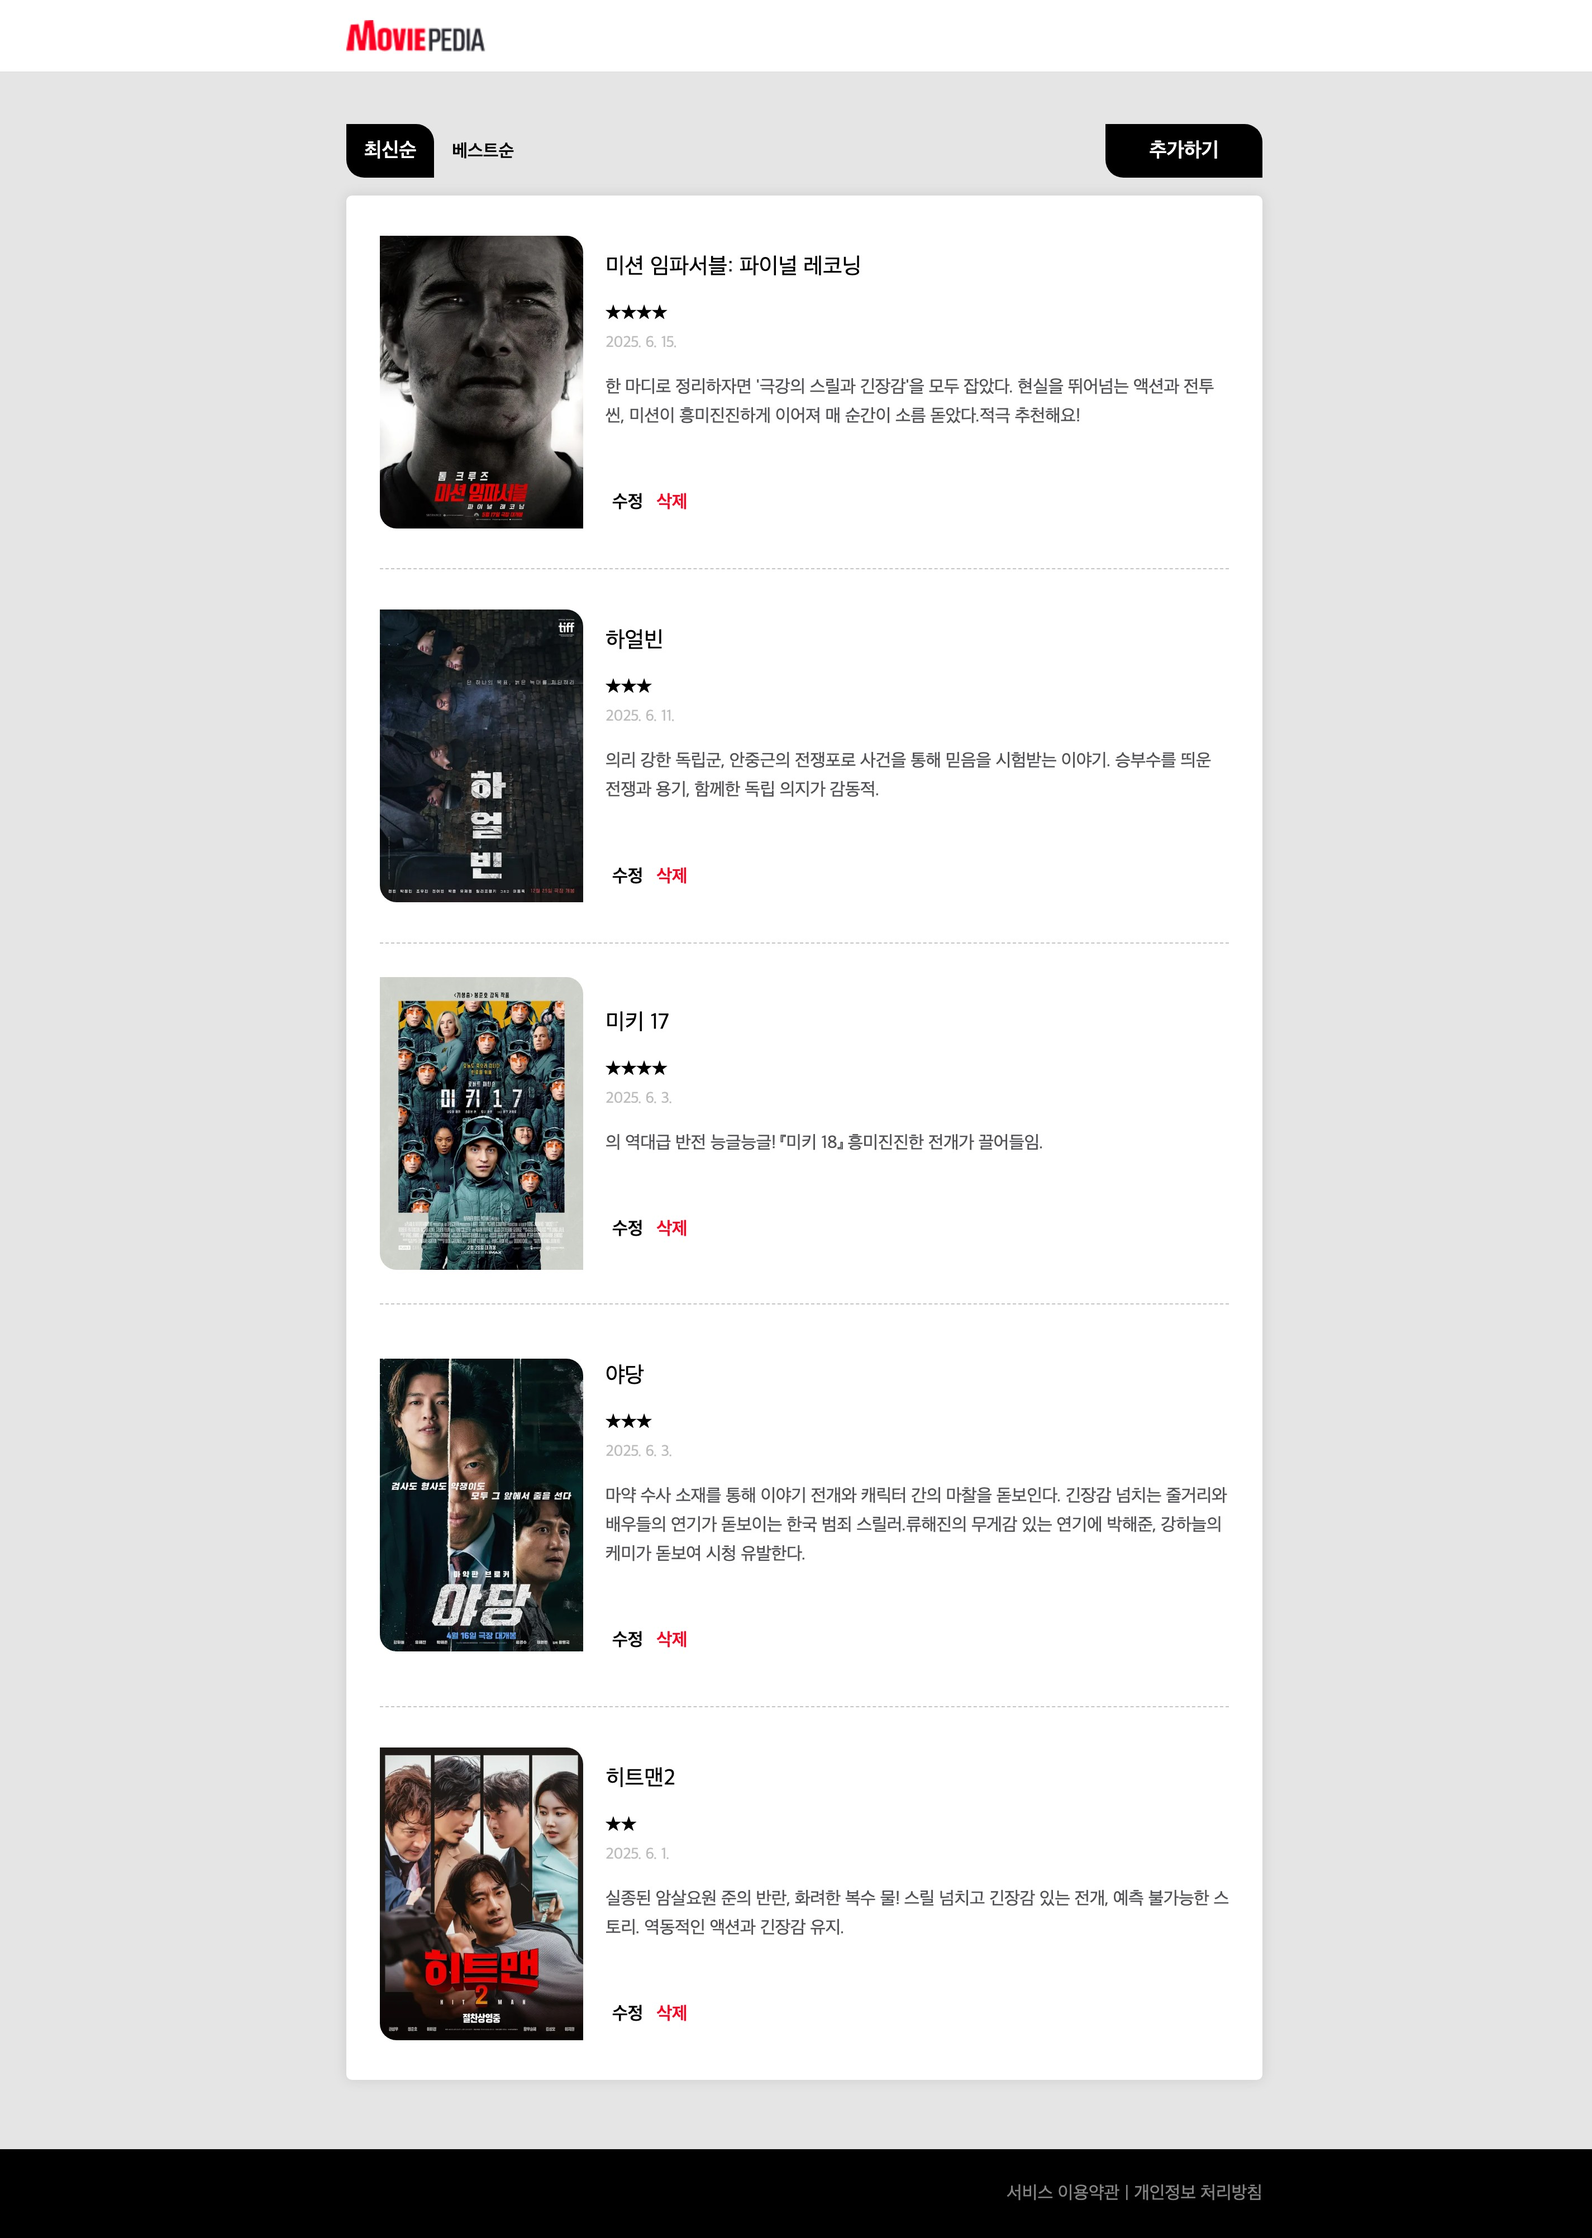
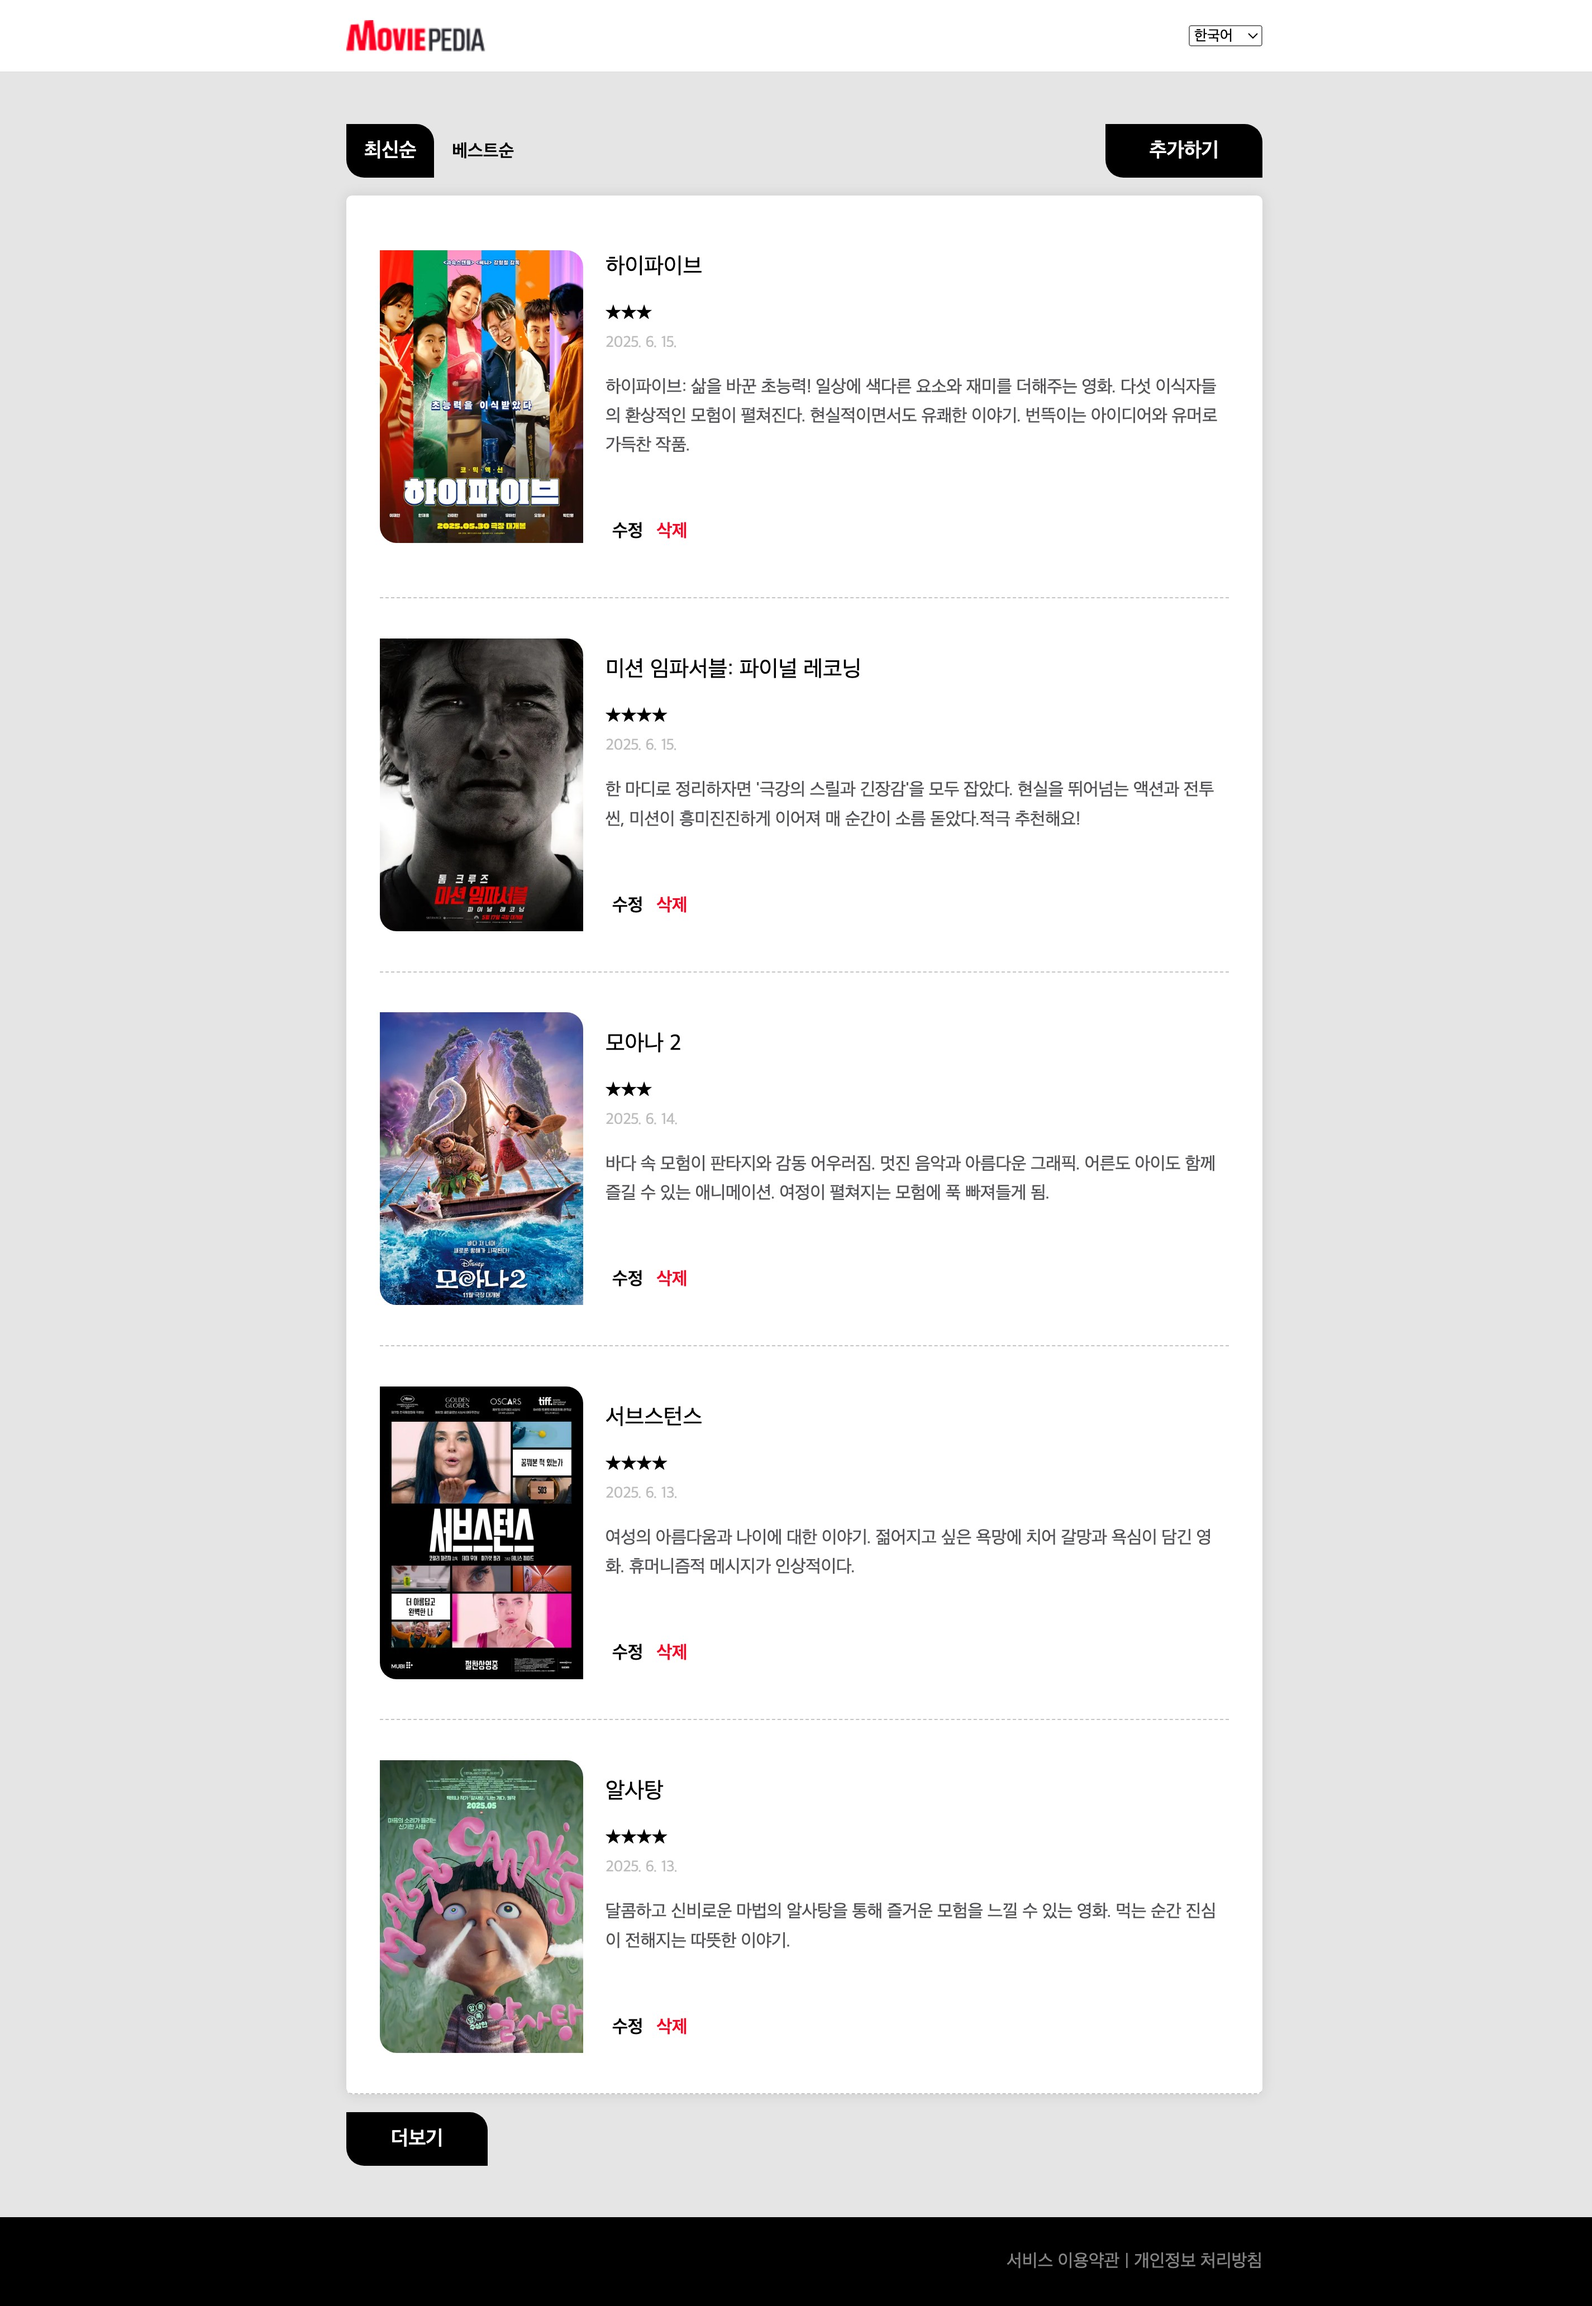
feat: 외부 API 데이터 연동 및 offset 기반 페이지네이션 추가

diff --git a/src/App.jsx b/src/App.jsx
@@ -1,59 +1,87 @@
-import { useState } from "react";
+import { useEffect, useState } from "react";
 import ReviewList from "./components/ReviewList";
 import Modal from "./components/Modal";
 import ReviewForm from "./components/ReviewForm";
 import Button from "./components/Button";
 import Input from "./components/Input";
 import Layout from "./components/Layout";
-import mockItems from "./mock.json";
 import styles from "./App.module.css";
 import useTranslate from "./hooks/useTranslate";
+import axios from "./utils/axios";
+
+const LIMIT = 5; // 데이터를 5개씩 받아오기 위한 상수
 
 function App() {
   const t = useTranslate();
-  const [items, setItems] = useState(mockItems);
+  const [items, setItems] = useState([]);
   const [order, setOrder] = useState("createdAt");
   const [keyword, setKeyword] = useState("");
   const [isCreateReviewOpen, setIsCreateReviewOpen] = useState(false);
+  const [hasNext, setHasNext] = useState(false);
 
-  const sortedItems = items.sort((a, b) => b[order] - a[order]); // sort로 내림차순 정렬
-
-  const filteredItems = sortedItems.filter( // filter로 원하는 조건을 만족하는 요소들만 필터링해서 새로운 배열 생성
+  const filteredItems = items.filter( // filter로 원하는 조건을 만족하는 요소들만 필터링해서 새로운 배열 생성
     (item) => item.title.includes(keyword) // includes로 문자열에 특정 문자열이 포함되는지 확인
   );
 
-  const handleCreate = (data) => {
-    const now = new Date();
-    const newItem = {
-      id: items.length + 1,
-      ...data,
-      createdAt: now.valueOf(),
-      updatedAt: now.valueOf(),
-    };
-    setItems([newItem, ...items]);
+  // 데이터를 받아 올 비동기 함수
+  const handleLoad = async (orderParam) => {
+    const response = await axios.get("/film-reviews", {
+      params: {
+        // 쿼리 스트링 추가
+        order: orderParam,
+        limit: LIMIT,
+      },
+    });
+    const { reviews, paging } = response.data;
+    setItems(reviews);
+    setHasNext(paging.hasNext);
+  };
+
+  // 데이터를 더 받아 오기 위한 함수
+  const handleLoadMore = async () => {
+    const response = await axios.get("/film-reviews", {
+      params: {
+        order,
+        offset: items.length,
+        limit: LIMIT,
+      },
+    });
+    const { reviews, paging } = response.data;
+    setItems((prevItems) => [...prevItems, ...reviews]);
+    setHasNext(paging.hasNext);
+  };
+
+  const handleCreate = async (data) => {
+    const response = await axios.post("/film-reviews", data);
+    const { review } = response.data;
+    setItems((prevItems) => [review, ...prevItems]);
     setIsCreateReviewOpen(false);
   };
 
-  const handleUpdate = (id, data) => {
-    const index = items.findIndex((item) => item.id === id);
-    const now = new Date();
-    const newItem = {
-      ...items[index],
-      ...data,
-      updatedAt: now.valueOf(),
-    };
-    const newItems = [
-      ...items.slice(0, index),
-      newItem,
-      ...items.slice(index + 1),
-    ];
-    setItems(newItems);
+  const handleUpdate = async (id, data) => {
+    const response = await axios.patch(`/film-reviews/${id}`, data);
+    const { review } = response.data;
+    setItems((prevItems) => {
+      const index = prevItems.findIndex((item) => item.id === id);
+      return [
+        ...prevItems.slice(0, index),
+        review,
+        ...prevItems.slice(index + 1),
+      ];
+    });
   };
 
-  const handleDelete = (id) => {
-    const nextItmes = items.filter((item) => item.id !== id);
-    setItems(nextItmes);
+  const handleDelete = async (id) => {
+    await axios.delete(`/film-reviews/${id}`);
+    setItems((prevItems) => 
+      prevItems.filter((item) => item.id !== id)
+    );
   };
+
+  // 무한 루프 방지
+  useEffect(() => {
+    handleLoad(order);
+  }, [order]);
 
   return (
     <Layout>
@@ -97,6 +125,7 @@ function App() {
         onUpdate={handleUpdate}
         onDelete={handleDelete}
       />
+      {hasNext && <Button onClick={handleLoadMore}>{t("load more")}</Button>}
     </Layout>
   );
 }

diff --git a/src/components/ReviewForm.jsx b/src/components/ReviewForm.jsx
@@ -19,11 +19,6 @@ function ReviewForm({
   const t = useTranslate();
   const inputRef = useRef(null);
 
-  const submit = (formData) => {
-    const data = Object.fromEntries(formData.entries()); // Object.fromEntries로 자바스크립트 객체로 변환
-    onSubmit(data);
-  };
-
   useEffect(() => {
     if (inputRef.current) {
       inputRef.current.focus();
@@ -31,7 +26,7 @@ function ReviewForm({
   }, []);
 
   return (
-    <form className={styles.form} action={submit}>
+    <form className={styles.form} action={onSubmit}>
       <img src={placeholderImage} />
       <div className={styles.content}>
         <div className={styles.titleRating}>

diff --git a/src/utils/axios.js b/src/utils/axios.js
@@ -1,0 +1,7 @@
+import Axios from "axios";
+
+const axios = Axios.create({
+  baseURL: "https://learn.codeit.kr/v2/0630",
+});
+
+export default axios;

diff --git a/README.md b/README.md
@@ -17,10 +17,12 @@ https://moviepedia-kujihye.netlify.app
 
 - 배열 데이터를 `map()`으로 렌더링한 영화 리뷰 목록
 - 상태(state)에 따라 전환되는 최신순 / 베스트순 탭
-- 리뷰 추가 / 수정 / 삭제 기능 구현
+- 리뷰 추가 / 수정 / 삭제
 - `createPortal`을 활용한 모달 기반 리뷰 작성 UI
 - `Context`를 활용한 전역 상태 관리
-- 다국어 기능 구현
+- 다국어 지원
+- 외부 API 데이터 연동
+- Offset 기반 페이지네이션
 
 ---
 
